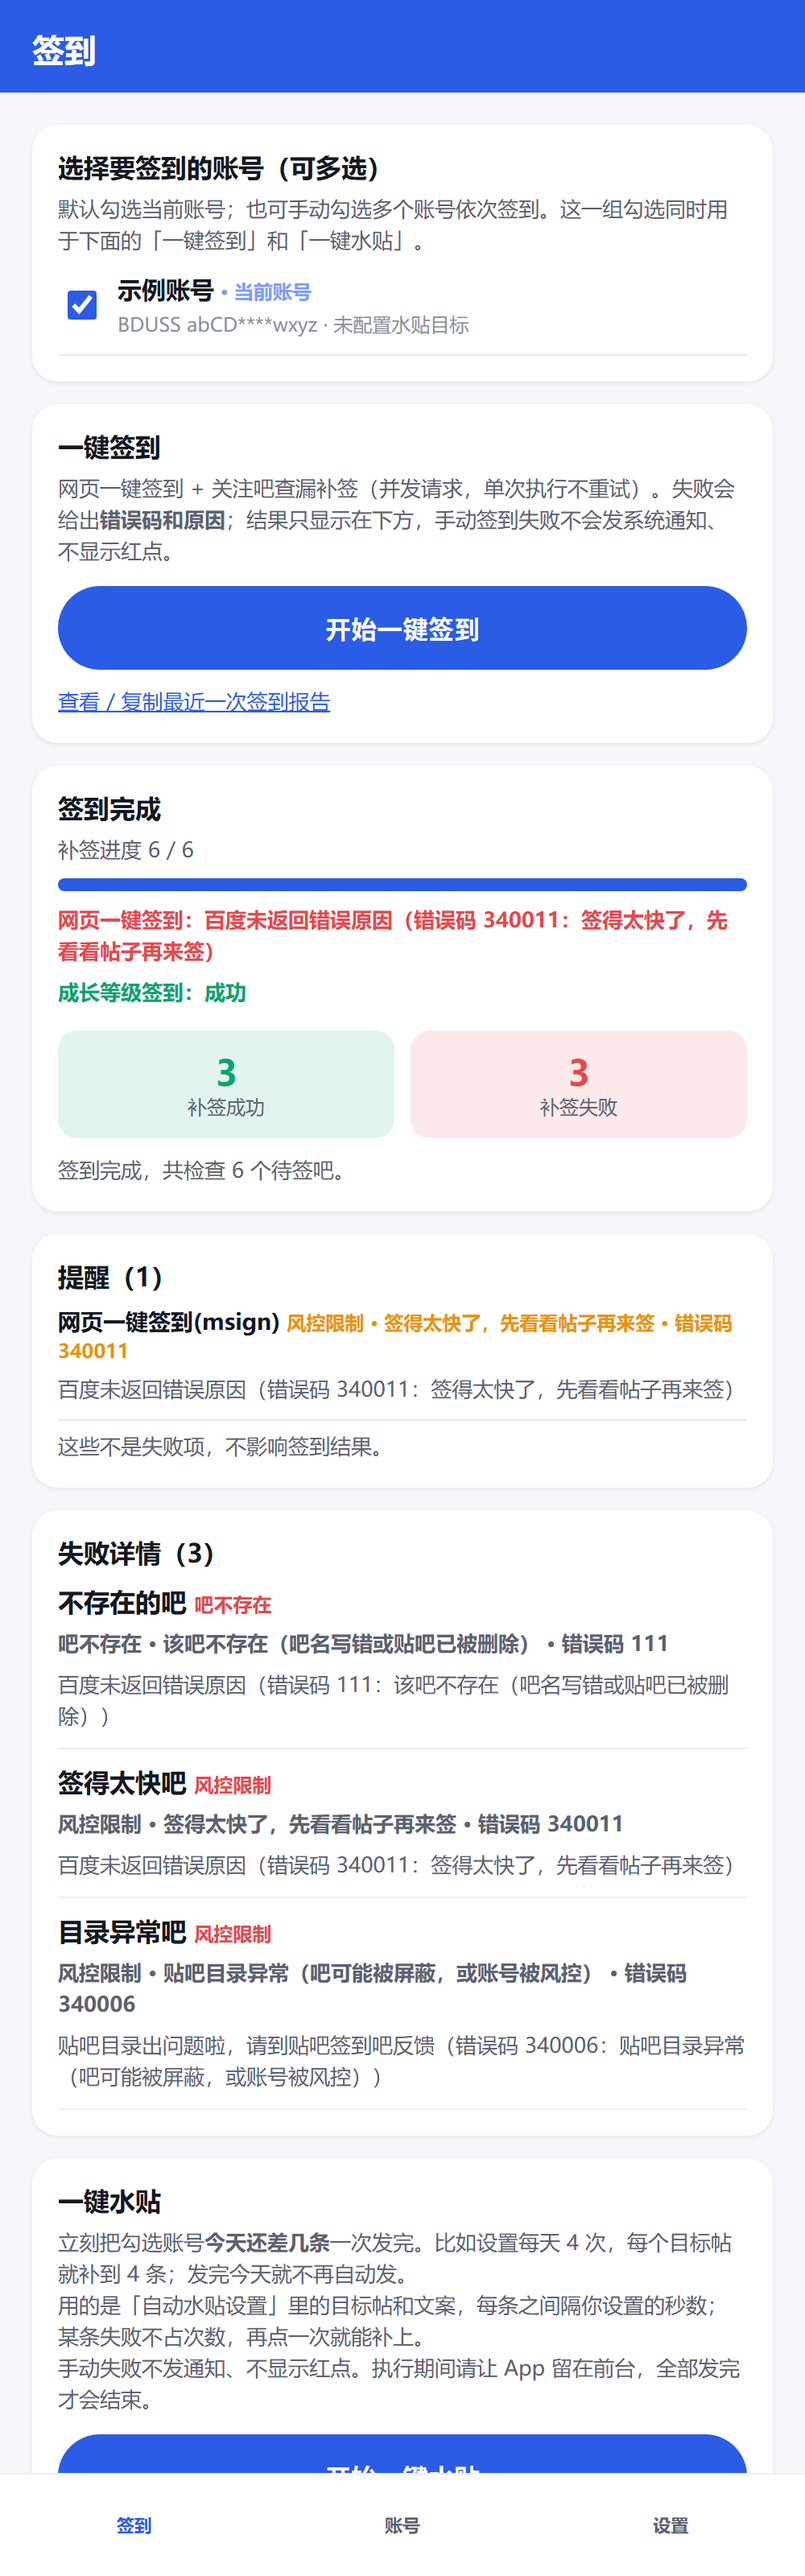
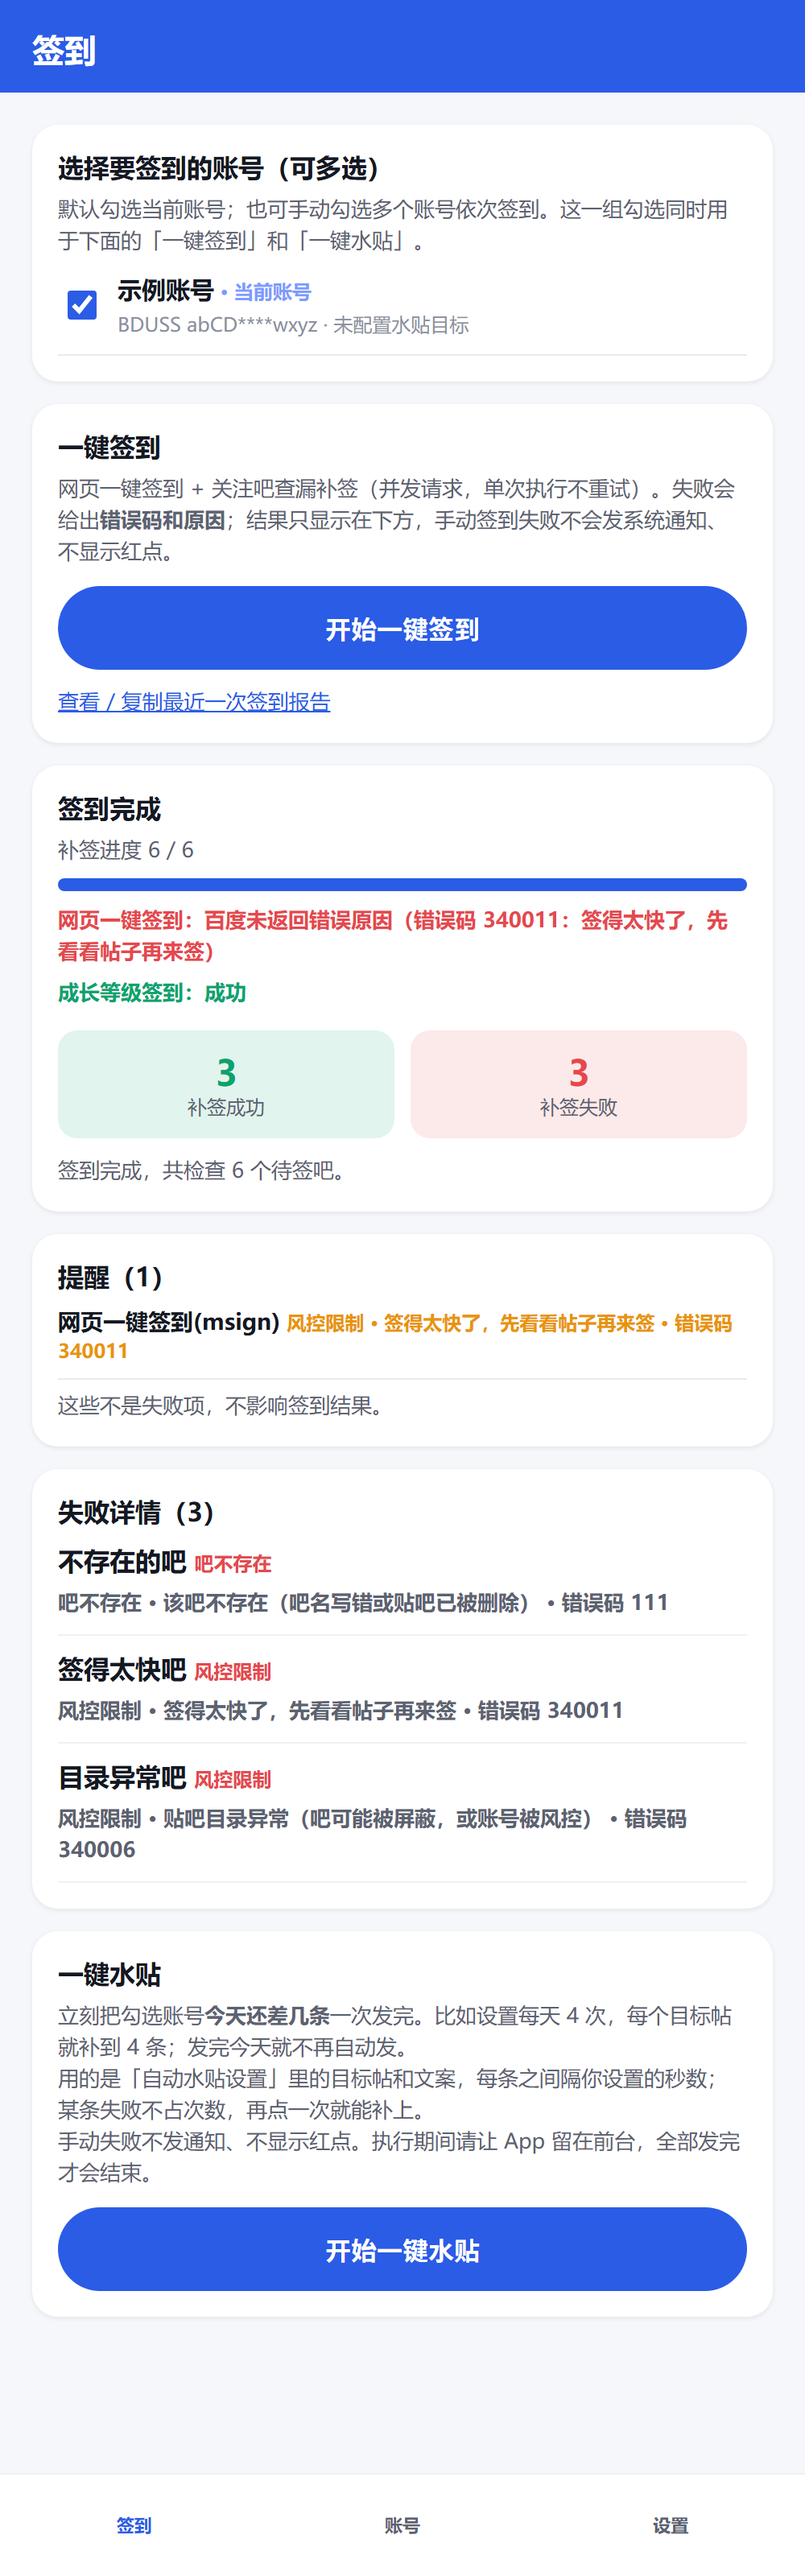
main: 失败详情不再重复显示同一条原因
失败项标题下已经显示原因和错误码时，detail 里重复的那句「百度未返回错误原因（错误码 X：原因）」不再单独占一行；只有百度原文或额外信息才显示第二行。更新 After 截图。

diff --git a/app/main.py b/app/main.py
@@ -1836,6 +1836,13 @@ function failLine(f){
   if(f.code!==null&&f.code!==undefined){bits.push('错误码 '+f.code);}
   return bits.join(' · ');
 }
+function detailLine(f){
+  var d=(f.detail===null||f.detail===undefined)?'':String(f.detail);
+  var r=f.reason?String(f.reason):'';
+  // detail 里已经包含同一条原因时不再重复显示；只有百度原文/额外信息才单独一行。
+  if(r && d.indexOf(r)>=0){return '';}
+  return d;
+}
 function growthLine(g){
   if(!g){return '';}
   var ok=(g.status==='success'||g.status==='done');
@@ -1854,7 +1861,7 @@ function warningsCard(list){
     html+='<div style="border-bottom:1px solid rgba(127,127,127,.16);padding:9px 0">'+
       '<div style="font-weight:700;font-size:14px">'+escTxt(w.forum)+
       ' <span style="color:#E8930C;font-size:12px">'+escTxt(failLine(w))+'</span></div>'+
-      (w.detail?'<div class="hint">'+escTxt(w.detail)+'</div>':'')+
+      (detailLine(w)?'<div class="hint">'+escTxt(detailLine(w))+'</div>':'')+
       '</div>';
   }
   html+='<div class="hint">这些不是失败项，不影响签到结果。</div></div>';
@@ -1913,7 +1920,7 @@ function renderSingle(s){
         '<div style="font-weight:700">'+escTxt(f.forum)+
         ' <span style="color:'+c+';font-size:12px">'+escTxt(f.category)+'</span></div>'+
         (failLine(f)?'<div class="hint" style="font-weight:700">'+escTxt(failLine(f))+'</div>':'')+
-        '<div class="hint">'+escTxt(f.detail)+'</div></div>';
+        (detailLine(f)?'<div class="hint">'+escTxt(detailLine(f))+'</div>':'')+'</div>';
     }
     if(s.failures.length>max){
       html+='<div class="hint">还有 '+(s.failures.length-max)+' 条未显示</div>';
@@ -2016,7 +2023,7 @@ function renderMulti(s){
         '<div style="font-weight:700">'+escTxt(f.account+' → '+f.forum)+
         ' <span style="color:'+c+';font-size:12px">'+escTxt(f.category)+'</span></div>'+
         (failLine(f)?'<div class="hint" style="font-weight:700">'+escTxt(failLine(f))+'</div>':'')+
-        '<div class="hint">'+escTxt(f.detail)+'</div></div>';
+        (detailLine(f)?'<div class="hint">'+escTxt(detailLine(f))+'</div>':'')+'</div>';
     }
     if(allFails.length>max){
       html+='<div class="hint">还有 '+(allFails.length-max)+' 条未显示</div>';
